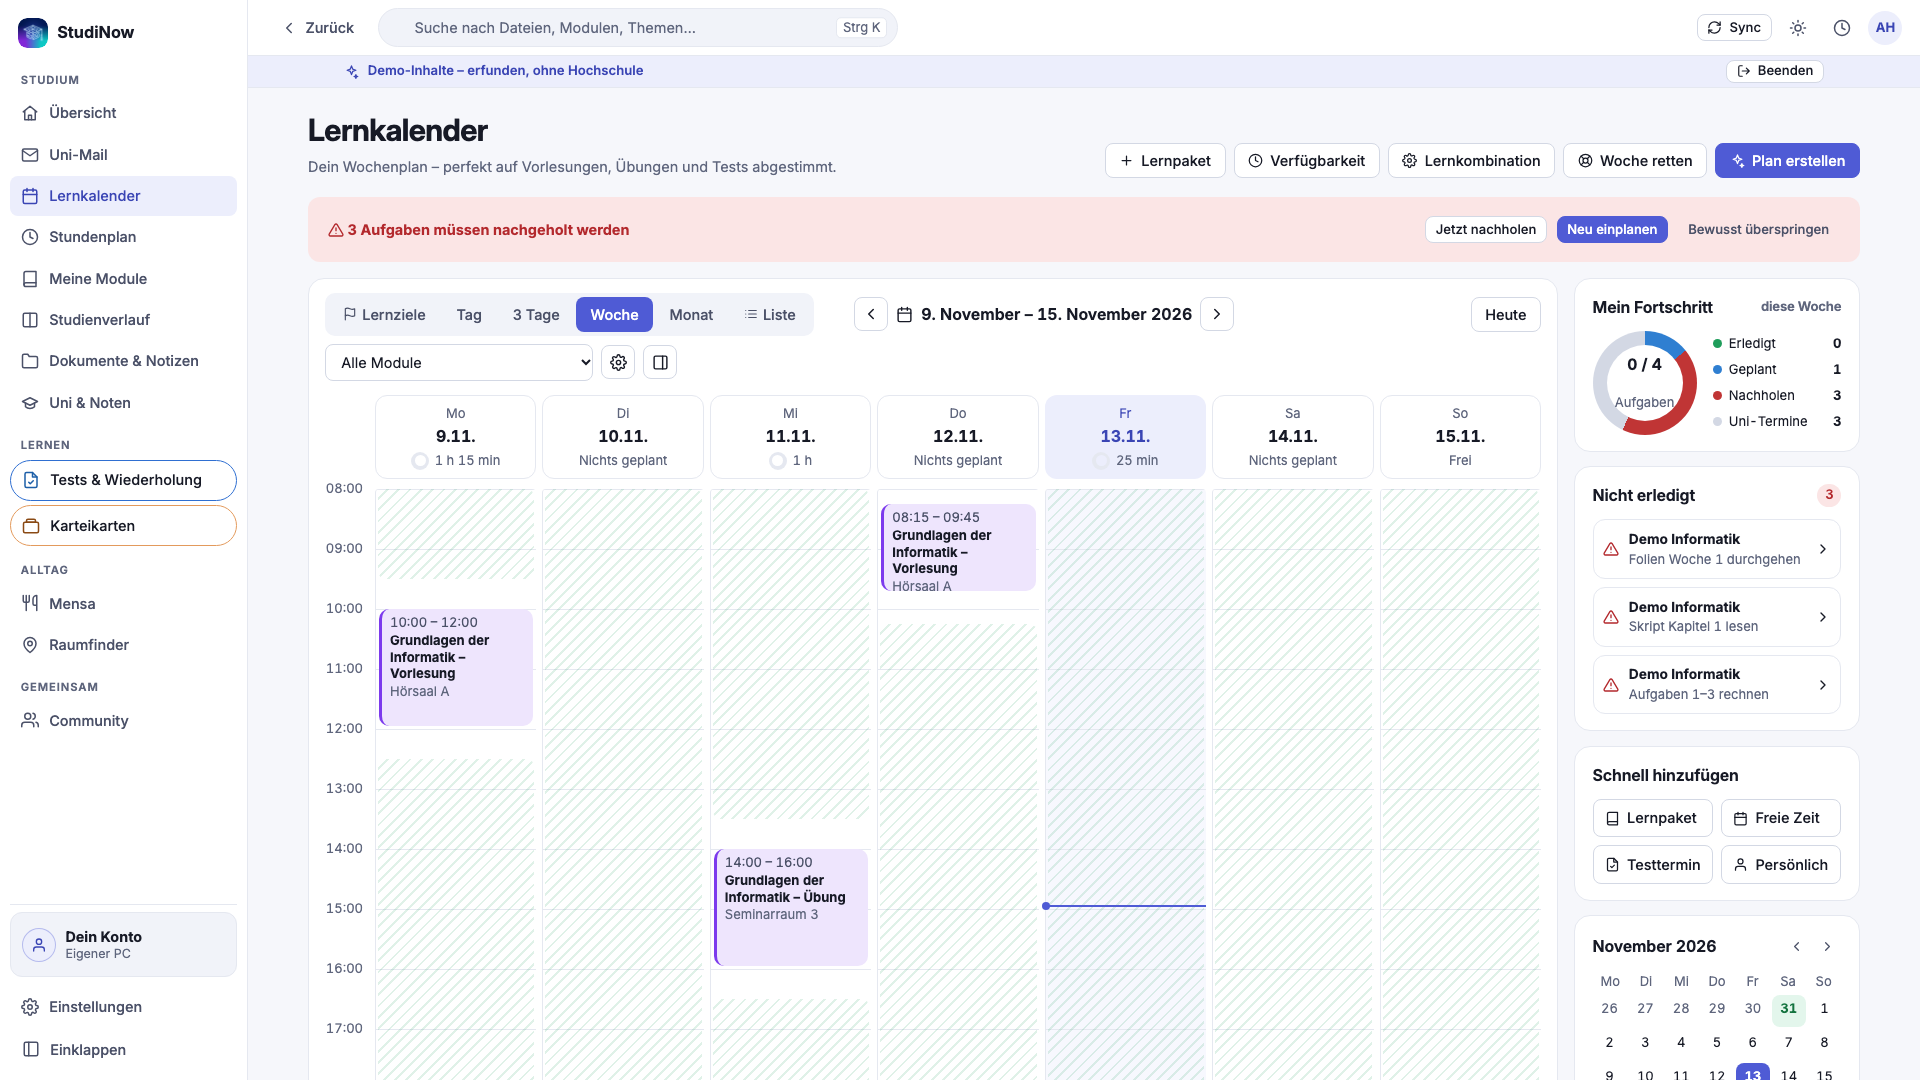
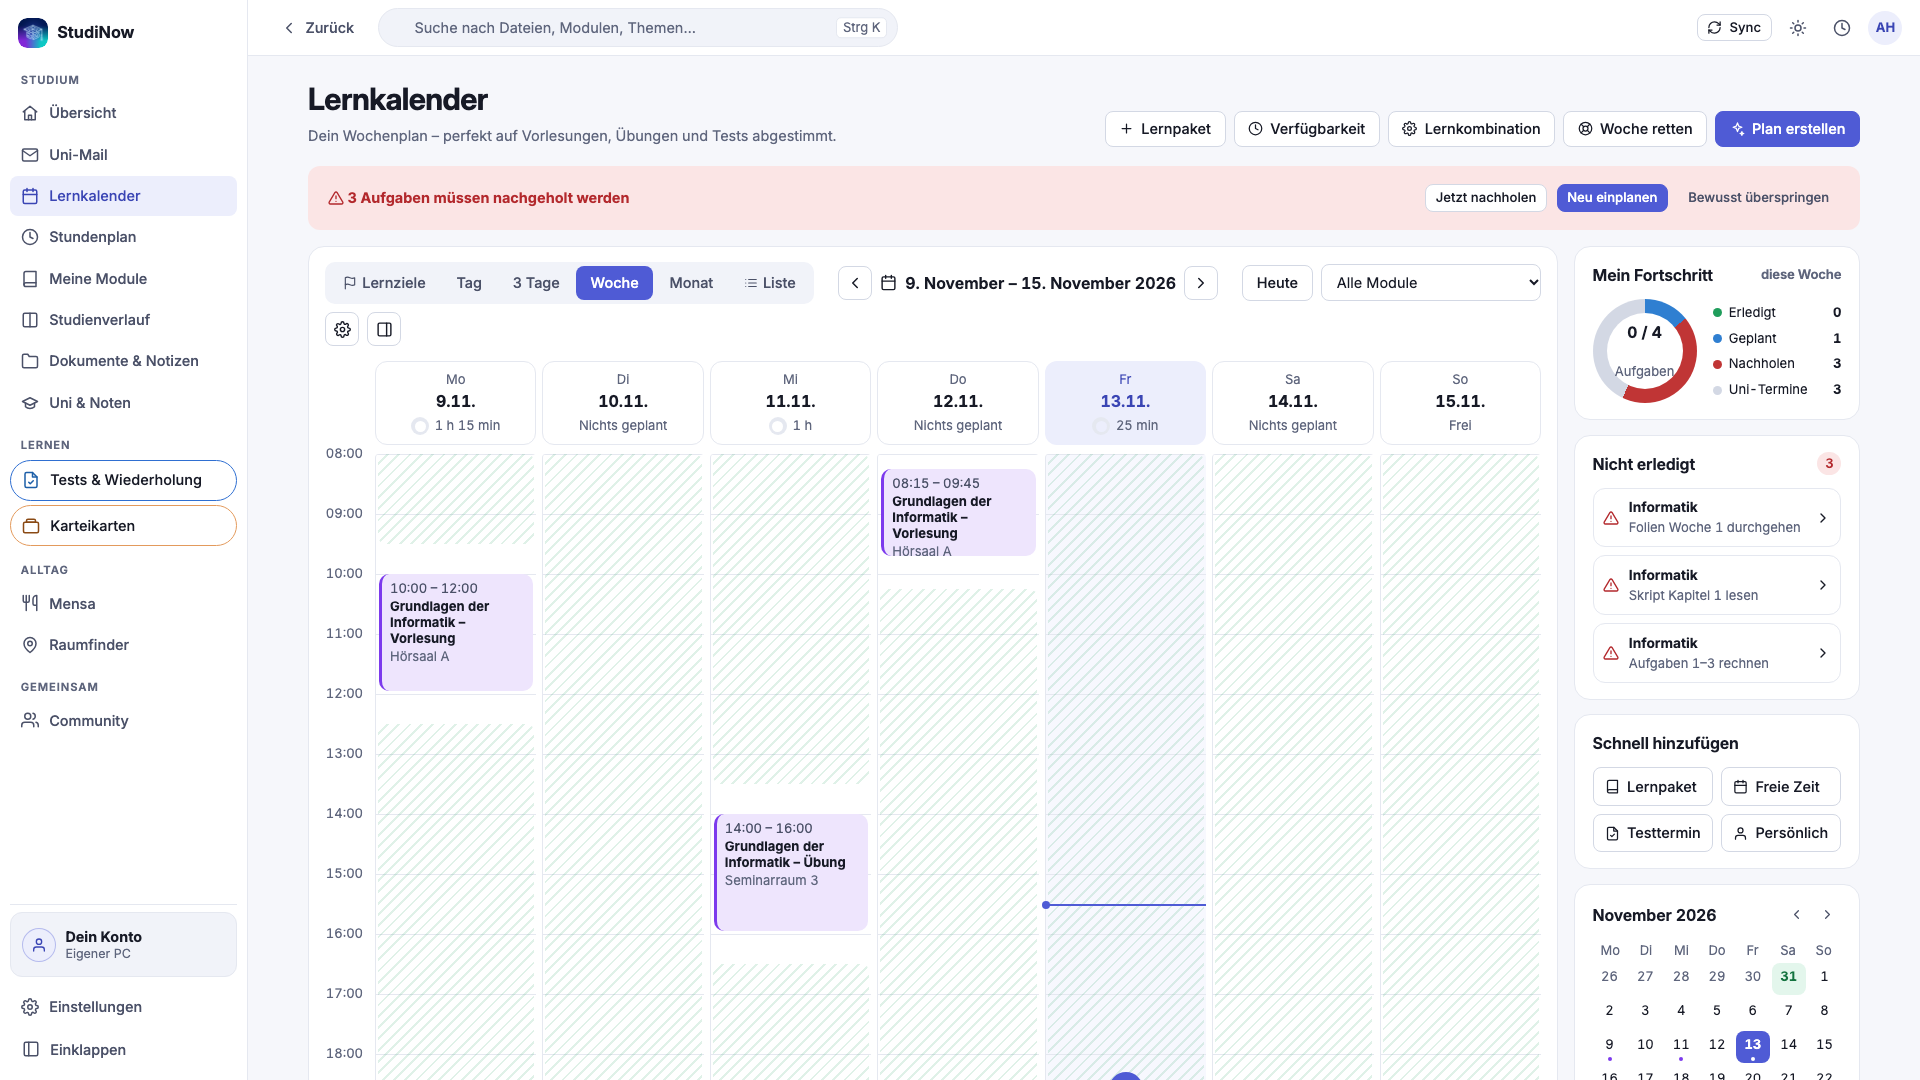
Store-Bilder ohne jeden Demo-Hinweis (Entscheidung des Inhabers 13.11.2026)
Auf den Bildern fuer den Microsoft Store steht nirgends mehr "Demo": keine Demo-Leiste, keine Demo-Namen.
Zu sehen ist ein Beispielmodul "Grundlagen der Informatik" (Fach "Informatik", Prof. Dr. Weber) mit
erfundenen Inhalten. Dazu neu: 6-stundenplan.png.

An der App selbst aendert das nichts - die Demo-Funktion und die Demo-Leiste bleiben unveraendert, die
Microsoft-Pruefer brauchen sie (Abschnitt 3 der Anleitung). Die Umbenennung passierte nur im Wegwerf-
Datenordner, aus dem die Bilder entstanden sind.

Changed region(s): [[0.1562, 0.0611, 0.9688, 1.0]]

diff --git a/docs/release/MICROSOFT-STORE.md b/docs/release/MICROSOFT-STORE.md
@@ -199,9 +199,8 @@ LIZENZEN.txt im Programmordner.
 
 ## 4. Bildschirmfotos
 
-Fünf Stück liegen fertig in `docs/release/store-windows/`, alle 1920 × 1080 PNG (Microsoft verlangt mindestens
-1366 × 768). Sie zeigen die Demo-Inhalte, nicht die Daten einer echten Hochschule; die schmale Leiste „Demo-Inhalte –
-erfunden, ohne Hochschule“ ist im Bild und darf da sein.
+Sechs Stück liegen fertig in `docs/release/store-windows/`, alle 1920 × 1080 PNG (Microsoft verlangt mindestens
+1366 × 768).
 
 | Datei | Zeigt |
 |---|---|
@@ -210,8 +209,14 @@ erfunden, ohne Hochschule“ ist im Bild und darf da sein.
 | `3-pdf-editor.png` | Ein Skript im eigenen PDF-Editor mit Stift- und Markerleiste |
 | `4-karteikarten.png` | Karteikarten-Stapel mit Leitner-Fächern und „Üben“ |
 | `5-module.png` | „Meine Module“ mit Lernstand, nächstem Termin und Zahlen |
+| `6-stundenplan.png` | Stundenplan der Woche mit Vorlesung und Übung |
 
 Nimm sie in dieser Reihenfolge; das erste Bild ist das Titelbild im Store.
+
+**Auf den Bildern steht nirgends „Demo“** (Entscheidung des Inhabers, 13.11.2026): keine Demo-Leiste, keine
+Demo-Namen. Zu sehen ist ein Beispielmodul „Grundlagen der Informatik“ mit erfundenen Inhalten — Store-Bilder dürfen
+Beispieldaten zeigen, und so sieht man die App, wie ein Studierender sie benutzt. In der App selbst ändert das
+nichts; die Demo für die Prüfer bleibt wie sie ist (Abschnitt 3, „Hinweise für die Zertifizierung“).
 
 Erzeugt mit der echten Weboberfläche der App (dieselbe, die im Windows-Fenster läuft). Neu erzeugen lassen sich sie
 jederzeit — sag mir Bescheid, wenn du andere Seiten im Store zeigen willst.
